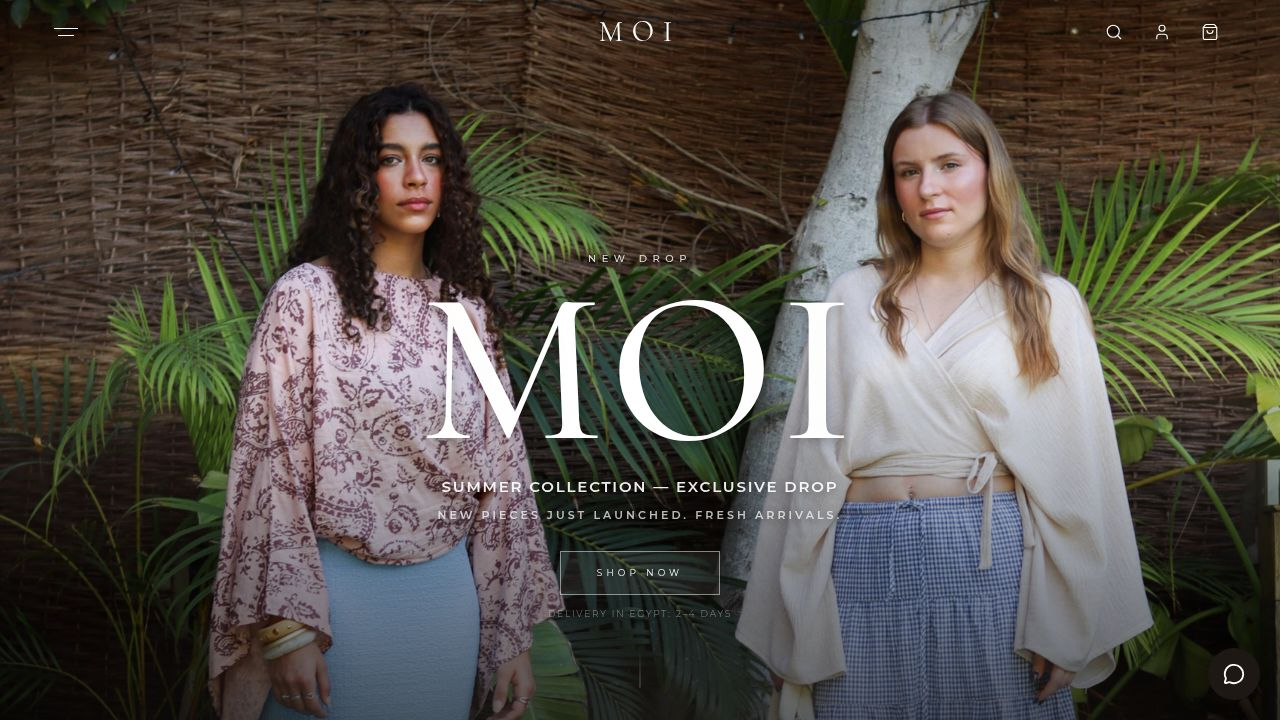
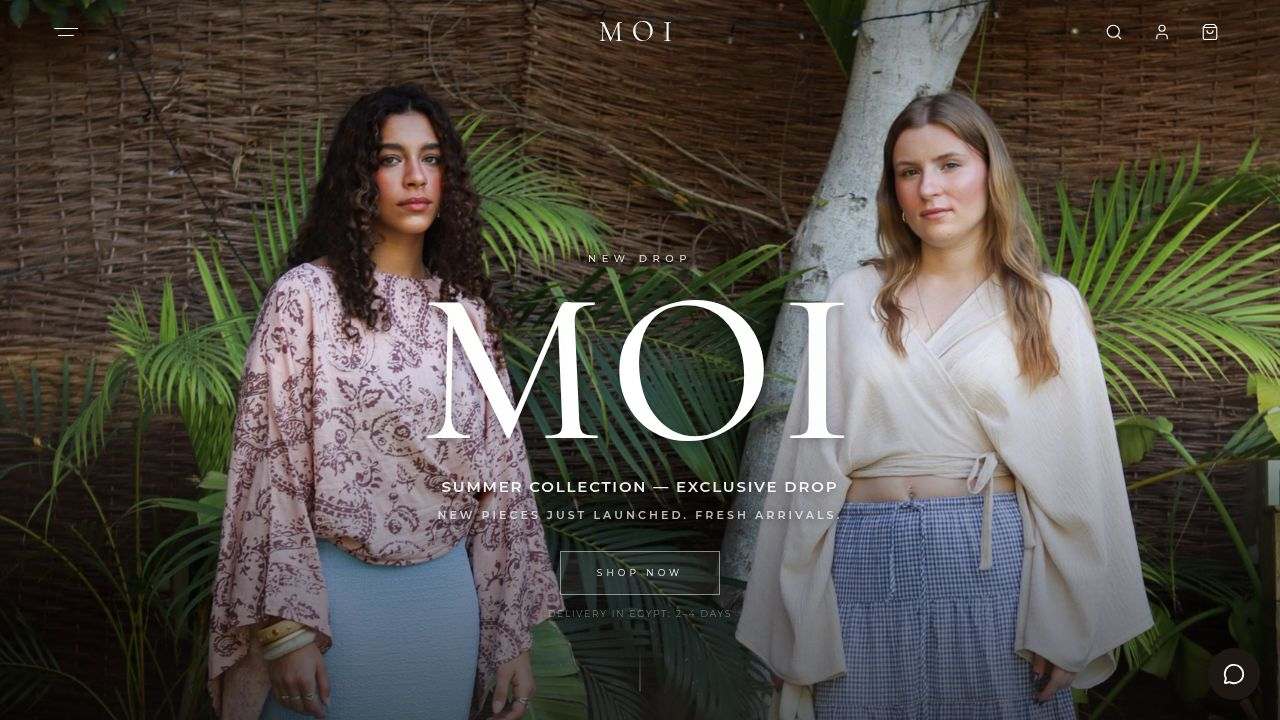
Add TikTok link to ambassador form and remove hero text fade animation
Adds a mandatory TikTok URL field to the ambassador application form, removes the hero text fade animation, and disables lazy loading for TikTok videos.

Replit-Commit-Author: Agent
Replit-Commit-Session-Id: 8bc3e366-ae82-4ed2-bac3-8130e97c598b
Replit-Commit-Checkpoint-Type: full_checkpoint
Replit-Commit-Event-Id: 3bda5913-55b9-4c0f-bd5b-b9966660190e
Replit-Commit-Screenshot-Url: https://storage.googleapis.com/screenshot-production-us-central1/3095ac8c-c529-4d3f-b18a-1650accab2e5/8bc3e366-ae82-4ed2-bac3-8130e97c598b/DHpGIOq
Replit-Helium-Checkpoint-Created: true

Changed region(s): [[0.9688, 0.4889, 1.0, 0.5194], [0.6875, 0.7028, 0.7188, 0.7333], [0.2188, 0.5806, 0.25, 0.6111]]

diff --git a/artifacts/moi/src/components/HeroVideo.tsx b/artifacts/moi/src/components/HeroVideo.tsx
@@ -151,18 +151,15 @@ export function HeroVideo({ onReady }: HeroVideoProps) {
         }
       >
         {/* Collection label */}
-        <motion.p
+        <p
           className="text-[9px] md:text-[10px] tracking-[0.55em] uppercase font-medium mb-2"
           style={{ color: "rgba(255,255,255,0.82)", fontFamily: "'Montserrat', sans-serif", textShadow: "0 2px 8px rgba(0,0,0,0.45)" }}
-          initial={{ opacity: 0, y: 12 }}
-          animate={{ opacity: 1, y: 0 }}
-          transition={{ duration: 1.1, ease: [0.22, 1, 0.36, 1], delay: 0.2 }}
         >
           New Drop
-        </motion.p>
+        </p>
 
         {/* Brand name */}
-        <motion.h1
+        <h1
           className="font-serif"
           style={{
             color: "#fff",
@@ -173,43 +170,31 @@ export function HeroVideo({ onReady }: HeroVideoProps) {
             fontWeight: 500,
             textShadow: "0 2px 12px rgba(0,0,0,0.35)",
           }}
-          initial={{ opacity: 0, y: 20 }}
-          animate={{ opacity: 1, y: 0 }}
-          transition={{ duration: 1.2, ease: [0.22, 1, 0.36, 1], delay: 0.1 }}
         >
           MOI
           <span className="sr-only"> — Premium Versatile Tops & Fashion</span>
-        </motion.h1>
+        </h1>
 
         {/* Headline */}
-        <motion.p
+        <p
           className="mt-3 text-[13px] md:text-[15px] tracking-[0.12em] uppercase font-bold"
           style={{ color: "rgba(255,255,255,0.92)", fontFamily: "'Montserrat', sans-serif", textShadow: "0 2px 8px rgba(0,0,0,0.35)" }}
-          initial={{ opacity: 0, y: 10 }}
-          animate={{ opacity: loaded ? 1 : 0, y: 0 }}
-          transition={{ duration: 0.9, ease: "easeOut", delay: 0.5 }}
         >
           Summer Collection — Exclusive Drop
-        </motion.p>
+        </p>
 
         {/* Subheadline */}
-        <motion.p
+        <p
           className="mt-2 text-[10px] md:text-[11px] tracking-[0.28em] uppercase font-semibold"
           style={{ color: "rgba(255,255,255,0.72)", fontFamily: "'Montserrat', sans-serif", textShadow: "0 2px 8px rgba(0,0,0,0.45)" }}
-          initial={{ opacity: 0 }}
-          animate={{ opacity: loaded ? 1 : 0 }}
-          transition={{ duration: 1, ease: "easeOut", delay: 0.7 }}
         >
           New pieces just launched. Fresh arrivals.
-        </motion.p>
+        </p>
 
-        {/* CTA — subtle opacity fade only, no offset/scale transforms that fight the compositor */}
-        <motion.button
+        {/* CTA */}
+        <button
           type="button"
           onClick={handleShopNow}
-          initial={{ opacity: 0 }}
-          animate={{ opacity: 1 }}
-          transition={{ duration: 0.55, ease: "easeOut", delay: 0.4 }}
           className="mt-7 inline-block border transition-all duration-300 hover:scale-[1.02] active:scale-[0.97] hover:bg-white/15"
           style={{
             color: "#fff",
@@ -225,18 +210,15 @@ export function HeroVideo({ onReady }: HeroVideoProps) {
           }}
         >
           Shop Now
-        </motion.button>
+        </button>
 
         {/* Urgency line */}
-        <motion.p
+        <p
           className="mt-3 text-[9px] tracking-[0.2em] uppercase font-light"
           style={{ color: "rgba(255,255,255,0.45)", fontFamily: "'Montserrat', sans-serif", textShadow: "0 1px 6px rgba(0,0,0,0.35)" }}
-          initial={{ opacity: 0 }}
-          animate={{ opacity: loaded ? 1 : 0 }}
-          transition={{ duration: 0.8, ease: "easeOut", delay: 0.9 }}
         >
           Delivery in Egypt: 2–4 days
-        </motion.p>
+        </p>
       </motion.div>
 
       {/* Scroll cue line */}

diff --git a/artifacts/moi/src/components/AmbassadorPage.tsx b/artifacts/moi/src/components/AmbassadorPage.tsx
@@ -1,6 +1,6 @@
 import { useState } from "react";
 import { motion, AnimatePresence } from "framer-motion";
-import { Send, UserRound, Phone, Mail, Facebook, Instagram, MessageCircleMore, CheckCircle, AlertCircle, Loader } from "lucide-react";
+import { Send, UserRound, Phone, Mail, Facebook, Instagram, MessageCircleMore, CheckCircle, AlertCircle, Loader, Video } from "lucide-react";
 
 type Status = "idle" | "loading" | "success" | "error";
 
@@ -13,6 +13,7 @@ export function AmbassadorPage() {
   const [email, setEmail] = useState("");
   const [facebook, setFacebook] = useState("");
   const [instagram, setInstagram] = useState("");
+  const [tiktok, setTiktok] = useState("");
   const [message, setMessage] = useState("");
   const [status, setStatus] = useState<Status>("idle");
 
@@ -20,7 +21,7 @@ export function AmbassadorPage() {
     e.preventDefault();
     if (status === "loading") return;
 
-    if (!name.trim() || !email.trim() || !message.trim()) {
+    if (!name.trim() || !email.trim() || !tiktok.trim() || !message.trim()) {
       setStatus("error");
       setTimeout(() => setStatus("idle"), 3500);
       return;
@@ -32,14 +33,14 @@ export function AmbassadorPage() {
       const res = await fetch("/api/ambassador", {
         method: "POST",
         headers: { "Content-Type": "application/json" },
-        body: JSON.stringify({ name, phone, email, facebook, instagram, message }),
+        body: JSON.stringify({ name, phone, email, facebook, instagram, tiktok, message }),
       });
 
       if (!res.ok) throw new Error("Server error");
 
       setStatus("success");
       setName(""); setPhone(""); setEmail("");
-      setFacebook(""); setInstagram(""); setMessage("");
+      setFacebook(""); setInstagram(""); setTiktok(""); setMessage("");
     } catch {
       setStatus("error");
       setTimeout(() => setStatus("idle"), 4000);
@@ -119,19 +120,23 @@ export function AmbassadorPage() {
               </label>
             </div>
 
-            <div className="mt-4 grid grid-cols-1 md:grid-cols-2 gap-4">
+            <div className="mt-4">
               <label className="block">
                 <span className="mb-2 flex items-center gap-2 text-[10px] tracking-[0.28em] uppercase" style={{ color: "#7a6e64" }}>
-                  <Facebook size={13} /> Facebook profile link
+                  <Video size={13} /> TikTok profile link <span style={{ color: "#c0392b" }}>*</span>
                 </span>
                 <input
                   className={inputCls}
                   type="url"
-                  placeholder="Optional"
-                  value={facebook}
-                  onChange={(e) => setFacebook(e.target.value)}
+                  placeholder="https://www.tiktok.com/@yourhandle"
+                  value={tiktok}
+                  onChange={(e) => setTiktok(e.target.value)}
+                  required
                 />
               </label>
+            </div>
+
+            <div className="mt-4 grid grid-cols-1 md:grid-cols-2 gap-4">
               <label className="block">
                 <span className="mb-2 flex items-center gap-2 text-[10px] tracking-[0.28em] uppercase" style={{ color: "#7a6e64" }}>
                   <Instagram size={13} /> Instagram profile link
@@ -142,6 +147,18 @@ export function AmbassadorPage() {
                   placeholder="Optional"
                   value={instagram}
                   onChange={(e) => setInstagram(e.target.value)}
+                />
+              </label>
+              <label className="block">
+                <span className="mb-2 flex items-center gap-2 text-[10px] tracking-[0.28em] uppercase" style={{ color: "#7a6e64" }}>
+                  <Facebook size={13} /> Facebook profile link
+                </span>
+                <input
+                  className={inputCls}
+                  type="url"
+                  placeholder="Optional"
+                  value={facebook}
+                  onChange={(e) => setFacebook(e.target.value)}
                 />
               </label>
             </div>

diff --git a/artifacts/api-server/src/routes/ambassador.ts b/artifacts/api-server/src/routes/ambassador.ts
@@ -11,6 +11,7 @@ interface AmbassadorBody {
   email?: unknown;
   facebook?: unknown;
   instagram?: unknown;
+  tiktok?: unknown;
   message?: unknown;
 }
 
@@ -23,6 +24,7 @@ async function notifyViaShopify(
     phone: string;
     facebook: string;
     instagram: string;
+    tiktok: string;
     message: string;
   },
 ): Promise<void> {
@@ -30,8 +32,9 @@ async function notifyViaShopify(
     `=== MOI AMBASSADOR APPLICATION ===`,
     ``,
     data.phone ? `Phone: ${data.phone}` : null,
-    data.facebook ? `Facebook: ${data.facebook}` : null,
+    data.tiktok ? `TikTok: ${data.tiktok}` : null,
     data.instagram ? `Instagram: ${data.instagram}` : null,
+    data.facebook ? `Facebook: ${data.facebook}` : null,
     ``,
     `--- About the applicant ---`,
     data.message,
@@ -78,6 +81,7 @@ async function notifyViaResend(data: {
   phone: string;
   facebook: string;
   instagram: string;
+  tiktok: string;
   message: string;
 }): Promise<void> {
   const to = process.env.AMBASSADOR_EMAIL_TO;
@@ -89,8 +93,9 @@ async function notifyViaResend(data: {
     `Name: ${data.name}`,
     `Email: ${data.email}`,
     data.phone ? `Phone: ${data.phone}` : null,
-    data.facebook ? `Facebook: ${data.facebook}` : null,
+    data.tiktok ? `TikTok: ${data.tiktok}` : null,
     data.instagram ? `Instagram: ${data.instagram}` : null,
+    data.facebook ? `Facebook: ${data.facebook}` : null,
     ``,
     `--- About the applicant ---`,
     data.message,
@@ -108,7 +113,7 @@ async function notifyViaResend(data: {
 }
 
 router.post("/ambassador", async (req, res) => {
-  const { name, phone, email, facebook, instagram, message } =
+  const { name, phone, email, facebook, instagram, tiktok, message } =
     req.body as AmbassadorBody;
 
   if (
@@ -116,10 +121,12 @@ router.post("/ambassador", async (req, res) => {
     name.trim().length === 0 ||
     typeof email !== "string" ||
     !email.includes("@") ||
+    typeof tiktok !== "string" ||
+    tiktok.trim().length === 0 ||
     typeof message !== "string" ||
     message.trim().length === 0
   ) {
-    res.status(400).json({ error: "Name, email and message are required." });
+    res.status(400).json({ error: "Name, email, TikTok link, and message are required." });
     return;
   }
 
@@ -128,6 +135,7 @@ router.post("/ambassador", async (req, res) => {
   const safePhone = typeof phone === "string" ? phone.trim() : "";
   const safeFacebook = typeof facebook === "string" ? facebook.trim() : "";
   const safeInstagram = typeof instagram === "string" ? instagram.trim() : "";
+  const safeTiktok = tiktok.trim();
   const safeMessage = message.trim();
 
   req.log.info({ name: safeName, email: safeEmail }, "Ambassador application received");
@@ -143,6 +151,7 @@ router.post("/ambassador", async (req, res) => {
         phone: safePhone,
         facebook: safeFacebook,
         instagram: safeInstagram,
+        tiktok: safeTiktok,
         message: safeMessage,
       })
       .returning({ id: ambassadorApplications.id });
@@ -166,6 +175,7 @@ router.post("/ambassador", async (req, res) => {
         phone: safePhone,
         facebook: safeFacebook,
         instagram: safeInstagram,
+        tiktok: safeTiktok,
         message: safeMessage,
       });
       req.log.info({ id: dbId }, "Ambassador customer created in Shopify");
@@ -183,6 +193,7 @@ router.post("/ambassador", async (req, res) => {
       phone: safePhone,
       facebook: safeFacebook,
       instagram: safeInstagram,
+      tiktok: safeTiktok,
       message: safeMessage,
     });
     req.log.info("Ambassador application emailed via Resend");

diff --git a/artifacts/moi/src/components/TikTokSocialProof.tsx b/artifacts/moi/src/components/TikTokSocialProof.tsx
@@ -162,7 +162,6 @@ export function TikTokSocialProof() {
                           style={{ height: "107%", transform: "translateY(-2px)" }}
                           allow="fullscreen; clipboard-write; encrypted-media; picture-in-picture; autoplay"
                           scrolling="no"
-                          loading="lazy"
                           sandbox="allow-scripts allow-same-origin allow-presentation allow-popups allow-popups-to-escape-sandbox allow-forms"
                         />
                       ) : (

diff --git a/lib/db/src/schema/ambassadorApplications.ts b/lib/db/src/schema/ambassadorApplications.ts
@@ -9,6 +9,7 @@ export const ambassadorApplications = pgTable("ambassador_applications", {
   phone: text("phone").notNull().default(""),
   facebook: text("facebook").notNull().default(""),
   instagram: text("instagram").notNull().default(""),
+  tiktok: text("tiktok").notNull().default(""),
   message: text("message").notNull(),
   createdAt: timestamp("created_at").defaultNow().notNull(),
 });